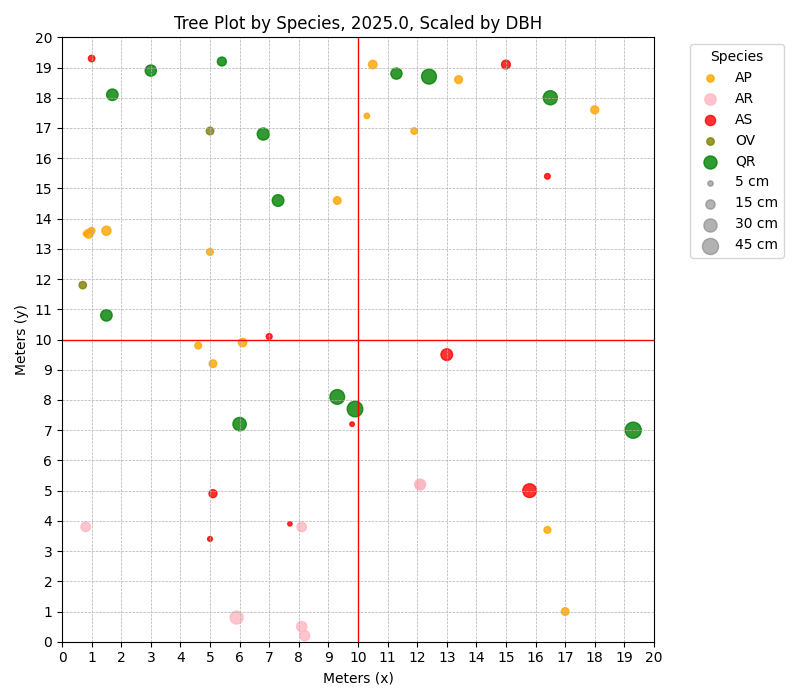
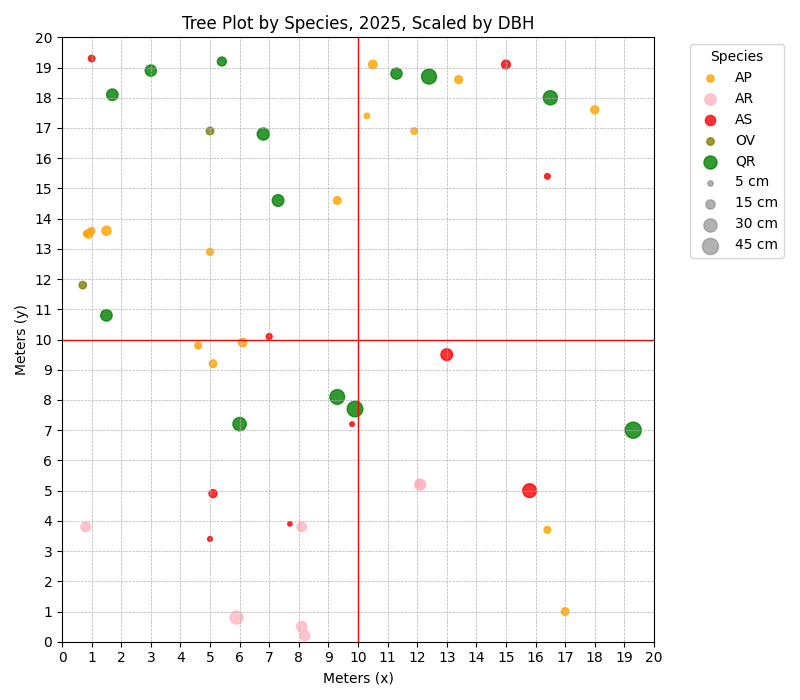
Added comparison page

Changed region(s): [[0.2188, 0.0, 0.6875, 0.06]]

diff --git a/pages/Comparison.py b/pages/Comparison.py
@@ -1,0 +1,57 @@
+import streamlit as st
+st.set_page_config(layout="wide", page_title="Comparison")
+import matplotlib.pyplot as plt
+import sys, os
+sys.path.append(os.path.dirname(os.path.dirname(__file__)))
+from tree_plots import load_data, plot_data, assign_colors
+
+
+DIAMETER_COL = "DBH"
+SPECIES_COL = "Species"
+OUTPUT_PATH = "output.png"
+CROWN_COL = "CrownClass"
+STATUS_COL = "Status "
+
+
+st.title("Tree Plot Comparison")
+
+with st.sidebar:
+    uploaded_file = st.file_uploader("Choose a data file containing all data. Must include a plotID column", type="csv")
+    df = load_data(uploaded_file)
+    plots = st.multiselect("Select plots to compare:", options=df["PlotID"].unique(), max_selections = 2)
+
+    # Allow filtering by year if year column exists for specific plots
+    plotting_group = st.selectbox("Pick attribute to plot trees by", [SPECIES_COL, STATUS_COL, CROWN_COL])
+
+
+
+if uploaded_file is not None:
+    df = df.rename(columns={"CoorX": "X", "CoorY": "Y"})
+
+
+    if len(plots) == 2:
+            col1, col2 = st.columns(2)
+
+            for i, plot_id in enumerate(plots):
+                subset = df[df["PlotID"] == plot_id]
+                
+
+                colors = assign_colors(subset[SPECIES_COL].unique())
+
+                if i == 0:
+                    with col1:
+                        year1 = st.selectbox("Select year to display", options=sorted(df["Year"].dropna().unique()), key = 1)
+                        if year1:
+                            subset = subset[subset["Year"] == year1]
+                        st.subheader(f"Plot {plot_id}")
+                        plot_data(subset, colors, plotting_group, year=year1)
+                else:
+                    with col2:
+                        year2 = st.selectbox("Select year to display", options=sorted(df["Year"].dropna().unique()), key = 2)
+                        if year2:
+                            subset = subset[subset["Year"] == year2]
+                        st.subheader(f"Plot {plot_id}")
+                        plot_data(subset, colors, plotting_group, year=year2)
+
+    #Comparison Statistics 
+    metric = st.selectbox("Choose a metric:", ["Tree density", "Basal area", "Species composition", "Survival"])

diff --git a/pages/Cross_Section.py b/pages/Cross_Section.py
@@ -1,6 +1,12 @@
 import streamlit as st
+import matplotlib.pyplot as plt
+import sys, os
+sys.path.append(os.path.dirname(os.path.dirname(__file__)))
+
+st.set_page_config(page_title="Cross Section")
+
 from tree_plots import load_data, plot_data, assign_colors
-from tree_objects import plot_interactive, prepare_plot_data,plot_with_hover_line
+from interactive import plot_interactive, prepare_plot_data, plot_with_hover_line
 from statistics_1 import diversity_plot, dbh_plot
 import pandas as pd 
 import numpy as np
@@ -9,13 +15,13 @@ DIAMETER_COL = "DBH"
 SPECIES_COL = "Species"
 OUTPUT_PATH = "output.png"
 CROWN_COL = "CrownClass"
-STATUS_COL = "Status "
+STATUS_COL = "Status"
 
 st.set_page_config(page_title="Tree Plot Visualizer", layout="centered")
 st.title("Tree Plot Visualizer")
-st.write("Upload a CSV with tree data (species, DBH) to generate a plot.")
+st.write("Upload a CSV with tree data (species, DBH) to generate a plot. This page focuses on cross-sectional analysis, to compare tree distributions, select the 'Comparison' page in the upper left.")
 
-
+# App to produce DBH histogram with species selection 
 def dbh_app(df):
     species_list = sorted(df[SPECIES_COL].dropna().unique())
     species_options = ["Select All"] + species_list
@@ -37,14 +43,13 @@ def dbh_app(df):
         st.write(f"Average DBH: {filtered_df[DIAMETER_COL].mean():.2f} cm")
 
 
-
 # Upload File
 uploaded_file = st.file_uploader("Choose the data file (csv)", type="csv")
 
 
 if uploaded_file is not None:
     df = load_data(uploaded_file)
-    df = df.rename(columns={"CoorX (m)": "X", "CoorY (m)": "Y", "DBH (cm)": "DBH"})
+    df = df.rename(columns={"CoorX": "X", "CoorY": "Y", "DBH)": "DBH"})
     if df is not None:
         try:
             colors = assign_colors(df[SPECIES_COL].unique())

diff --git a/tree_plots.py b/tree_plots.py
@@ -8,7 +8,7 @@ import streamlit as st
 from collections import defaultdict
 import itertools
 import pandas as pd
-from tree_objects import get_dbh_history
+from interactive import get_dbh_history
 import time
 
 # Plotting Constants
@@ -17,10 +17,10 @@ import time
 DIAMETER_COL = "DBH"
 SPECIES_COL = "Species"
 OUTPUT_PATH = "output.png"
-STATUS_COL = "Status "
+STATUS_COL = "Status"
 CROWN_COL = "CrownClass"
 
-
+@st.cache_data
 def load_data(filelike):
     if filelike is not None:
         try:

diff --git a/interactive.py b/interactive.py
@@ -11,12 +11,6 @@ OUTPUT_PATH = "output.png"
 STATUS_COL = "Status "
 CROWN_COL = "CrownClass"
 
-
-class Tree:
-    def __init__(self):
-        pass
-
-
 def get_dbh_history(df, tree_id):
     tree_data = df[df["TreeID"] == tree_id].sort_values("Year")
     return list(tree_data["DBH"]), list(tree_data["Year"])

diff --git a/statistics_1.py b/statistics_1.py
@@ -7,6 +7,7 @@ SPECIES_COL = "Species"
 
 
 
+@st.cache_data
 def diversity_plot(species_counts, colourwheel):
     fig2, ax = plt.subplots(figsize=(4, 4))
     species_counts.plot(kind="pie", ax=ax, color=colourwheel)

diff --git a/pages/streamlit_app.py b/pages/streamlit_app.py
@@ -1,0 +1,7 @@
+import streamlit as st
+
+# Main page with navigation set in Streamlit
+pg = st.navigation([st.Page("Cross_Section.py"), st.Page("Comparison.py")],position="top"
+)
+pg.run()
+

diff --git a/README.md b/README.md
@@ -3,7 +3,7 @@
 This repository hosts the code for an interactive tree plot visualizer. The app explores visually the effect of deer overbrowsing on sampled 20x20 metre plots of trees.
 
 How its made: Python and back-end javascript
-Built with: 
+### Built With
 Streamlit
 Matplotlib
 Pandas
